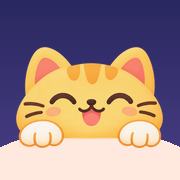
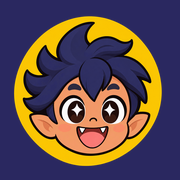
홈 화면 새 디자인: 꼬비샘과 쉬는 시간 (#5)
Claude-Session: https://claude.ai/code/session_01TJDp5aKoRydLwuCtjM8kES

diff --git a/index.html b/index.html
@@ -6,39 +6,76 @@
 <link rel="apple-touch-icon" href="/icons/icon-180.png"/>
 <link rel="icon" type="image/png" href="/icons/icon-192.png"/>
 <link rel="manifest" href="/manifest.webmanifest"/>
-<meta name="apple-mobile-web-app-title" content="꼬비샘 게임방"/>
+<meta name="apple-mobile-web-app-title" content="꼬비샘과 쉬는 시간"/>
 <meta name="theme-color" content="#2a2860"/>
-<title>꼬비샘 게임방</title>
+<title>꼬비샘과 쉬는 시간</title>
+<link rel="preload" as="image" href="img/bg.jpg"/>
 <link href="https://fonts.googleapis.com/css2?family=Jua&display=swap" rel="stylesheet"/>
 <style>
 *{margin:0;padding:0;box-sizing:border-box}
-:root{--cream:#fff6ec;--edge:#ecc9b0;--ink:#2c2950;--coral:#ee5a6f}
-body{font-family:'Jua',sans-serif;color:var(--ink);min-height:100vh;padding:48px 16px 40px;
-  background:radial-gradient(ellipse 60% 45% at 50% 30%,#45428f 0%,transparent 70%),linear-gradient(180deg,#26245a,#33307a 60%,#4a3f86);}
-h1{text-align:center;font-size:44px;color:#fff;letter-spacing:2px;text-shadow:0 4px 0 rgba(0,0,0,.25)}
-h1 span{color:#ffd25e}
-.sub{text-align:center;color:#cfc9f2;margin:10px 0 36px;font-size:17px}
-.grid{max-width:1000px;margin:0 auto;display:grid;grid-template-columns:repeat(auto-fill,minmax(260px,1fr));gap:24px}
-.game{display:block;text-decoration:none;color:inherit;background:var(--cream);border-radius:24px;overflow:hidden;
-  box-shadow:0 6px 0 var(--edge),0 12px 26px rgba(0,0,0,.25);transition:transform .15s}
-.game:hover{transform:translateY(-4px)}
-.game img{display:block;width:100%;aspect-ratio:10/9;object-fit:cover;background:#1d1c48}
-.info{padding:14px 18px 18px}
-.info b{display:block;font-size:24px;font-weight:normal;color:var(--coral)}
-.info p{font-size:15px;color:#6f6585;margin-top:4px}
-.soon{display:flex;align-items:center;justify-content:center;min-height:200px;border:3px dashed rgba(255,255,255,.25);border-radius:24px;color:#cfc9f2;font-size:18px}
-footer{text-align:center;color:rgba(255,255,255,.5);font-size:13px;margin-top:40px;letter-spacing:1px}
-/* ====== TOP BAR (게임방 / 전체화면) ====== */
+:root{--cream:#fff6e4;--line:#3a2b33;--ink:#2c2950;--coral:#f2685f;--yellow:#ffd75e;--night:#2a2860}
+html{background:var(--night)}
+body{font-family:'Jua',sans-serif;color:var(--ink);min-height:100vh;padding:28px 20px 48px;position:relative;overflow-x:hidden;
+  background:#2a2860 url(img/bg.jpg) center top/cover no-repeat fixed}
+body::before{content:"";position:fixed;inset:0;z-index:-1;background:linear-gradient(180deg,rgba(30,26,80,.15),rgba(30,26,80,0) 40%,rgba(30,26,80,.25))}
+.page{max-width:1180px;margin:0 auto;display:grid;grid-template-columns:250px 1fr;grid-template-areas:"head head" "char cards";column-gap:12px;align-items:end;position:relative}
+header{grid-area:head;text-align:center;position:relative;padding:40px 0 30px}
+.logo{display:block;width:min(680px,92%);height:auto;margin:0 auto;filter:drop-shadow(0 6px 0 rgba(20,16,60,.35))}
+h1{position:absolute;width:1px;height:1px;overflow:hidden;clip:rect(0 0 0 0)}
+.sub{color:#fff;font-size:22px;margin-top:10px;text-shadow:0 2px 0 rgba(20,16,60,.6),0 0 12px rgba(20,16,60,.6);letter-spacing:.5px}
+.char{grid-area:char;align-self:end;width:100%;height:auto;margin-bottom:-6px;transform-origin:50% 100%;animation:wave 3.2s ease-in-out infinite;filter:drop-shadow(0 8px 10px rgba(10,8,40,.45))}
+@keyframes wave{0%,100%{transform:rotate(0)}50%{transform:rotate(-2.5deg) translateY(-4px)}}
+.grid{grid-area:cards;display:grid;grid-template-columns:repeat(auto-fill,minmax(250px,1fr));gap:22px}
+.game,.soon{position:relative;display:flex;flex-direction:column;background:var(--cream);border:3px solid var(--line);border-radius:28px;padding:14px 14px 16px;
+  box-shadow:0 6px 0 rgba(58,43,51,.55),0 14px 28px rgba(10,8,40,.35);text-decoration:none;color:inherit}
+.game{transition:transform .15s}
+.game:hover,.game:focus-visible{transform:translateY(-5px) rotate(-.4deg)}
+.game:focus-visible{outline:4px solid var(--yellow);outline-offset:4px}
+.game img{display:block;width:100%;aspect-ratio:10/9;object-fit:cover;border-radius:18px;background:#1d1c48}
+.title{display:flex;align-items:center;justify-content:center;gap:8px;margin:14px 0 8px}
+.title b{font-weight:normal;font-size:24px;background:var(--yellow);border-radius:999px;padding:5px 22px 3px;box-shadow:inset 0 -3px 0 rgba(200,140,20,.25);white-space:nowrap}
+.burst{width:22px;height:26px;flex:none}
+.burst path{stroke:var(--coral);stroke-width:3.4;stroke-linecap:round;fill:none}
+.burst.r{transform:scaleX(-1)}
+.game p{text-align:center;font-size:15px;color:#3d3446}
+.soon{justify-content:center;align-items:center;min-height:300px;overflow:hidden}
+.soon::before{content:"";position:absolute;inset:12px;border:3px dashed #b9a99a;border-radius:20px}
+.soon span{font-size:26px;color:#7a6a63;margin-bottom:40px}
+.soon img{position:absolute;right:6px;bottom:12px;width:58%;max-width:200px;height:auto;animation:peek 4s ease-in-out infinite}
+@keyframes peek{0%,70%,100%{transform:translateY(0)}80%{transform:translateY(8px)}}
+.wisp{position:absolute;width:44px;height:auto;pointer-events:none;opacity:.95;filter:drop-shadow(0 0 14px rgba(255,220,110,.85));animation:float 5s ease-in-out infinite}
+.w1{left:6%;top:18%}.w2{right:8%;top:6%;width:36px;animation-delay:-1.6s}.w3{right:2%;top:62%;width:30px;animation-delay:-3s}.w4{left:16%;top:70%;width:26px;animation-delay:-2.2s}
+@keyframes float{0%,100%{transform:translateY(0)}50%{transform:translateY(-12px)}}
+@media (prefers-reduced-motion:reduce){.char,.wisp,.soon img{animation:none}}
+/* ====== TOP BAR (전체화면) ====== */
 .topbar{position:fixed;top:12px;left:12px;right:12px;z-index:50;display:flex;justify-content:flex-end;pointer-events:none}
-.topbar a,.topbar button{pointer-events:auto;display:inline-flex;align-items:center;gap:6px;border:none;border-radius:20px;padding:7px 14px;
-  font-family:'Jua',sans-serif;font-size:16px;color:var(--ink);background:rgba(255,246,236,.92);box-shadow:0 3px 0 var(--edge);text-decoration:none;cursor:pointer}
-.topbar a:hover,.topbar button:hover{filter:brightness(1.04)}
-.topbar svg{width:16px;height:16px;fill:none;stroke:currentColor;stroke-width:2.4;stroke-linecap:round;stroke-linejoin:round}
+.topbar a,.topbar button{pointer-events:auto;display:inline-flex;align-items:center;gap:6px;border:3px solid var(--line);border-radius:999px;padding:6px 16px;
+  font-family:'Jua',sans-serif;font-size:17px;color:var(--ink);background:var(--yellow);box-shadow:0 3px 0 rgba(58,43,51,.55);text-decoration:none;cursor:pointer}
+.topbar a:hover,.topbar button:hover{filter:brightness(1.05)}
+.topbar svg{width:18px;height:18px;fill:none;stroke:currentColor;stroke-width:2.6;stroke-linecap:round;stroke-linejoin:round}
+/* 태블릿: 캐릭터 조금 작게 */
+@media (max-width:1000px){.page{grid-template-columns:190px 1fr}}
+/* 휴대폰: 캐릭터는 제목 옆, 카드는 한 줄씩 */
+@media (max-width:760px){
+  body{padding:16px 16px 36px;background-attachment:scroll;background-size:auto 100vh;background-position:30% top}
+  .page{grid-template-columns:96px 1fr;grid-template-areas:"char head" "cards cards";column-gap:6px;align-items:center}
+  header{padding:30px 0 18px}
+  .logo{width:100%}
+  .sub{font-size:15px;margin-top:6px}
+  .char{align-self:center;margin:24px 0 14px}
+  .grid{grid-template-columns:1fr;gap:18px}
+  .game img{aspect-ratio:4/3;object-position:center top}
+  .title b{font-size:22px}
+  .soon{min-height:190px}
+  .soon img{width:140px}
+  .soon{align-items:flex-start;padding-left:34px}
+  .soon span{margin:0 0 20px;font-size:22px}
+  .wisp{width:28px}.w3,.w4{display:none}
+}
 @media (max-width:760px), (pointer:coarse){
   .topbar{top:6px;left:6px;right:6px}
-  .topbar a,.topbar button{font-size:12px;padding:7px 8px;gap:0}
-  .topbar svg{width:18px;height:18px}
-  .topbar .t{display:none}
+  .topbar a,.topbar button{font-size:13px;padding:5px 10px;gap:4px;border-width:2px}
+  .topbar svg{width:16px;height:16px}
 }
 </style>
 </head>
@@ -67,18 +104,33 @@ footer{text-align:center;color:rgba(255,255,255,.5);font-size:13px;margin-top:40
 })();
 </script>
 
-<h1>🎮 꼬비샘 <span>게임방</span></h1>
-<p class="sub">쉬는 시간에 친구들과 즐겨 보세요!</p>
-<div class="grid">
-  <a class="game" href="tetris/">
-    <img src="tetris/thumb.jpg" alt="냥냥 테트리스 게임 화면">
-    <div class="info"><b>냥냥 테트리스</b><p>10단계까지 완주하고 랭킹 TOP 50에 도전!</p></div>
-  </a>
-  <a class="game" href="spelling/">
-    <img src="spelling/thumb.jpg" alt="맞춤법 게임 화면">
-    <div class="info"><b>맞춤법 게임</b><p>맞춤법이 옳은 블록으로 점프! 50문제에 도전!</p></div>
-  </a>
-  <div class="soon">새 게임 준비 중 🐾</div>
+<div class="page">
+  <header>
+    <img class="wisp w1" src="img/wisp.png" alt="">
+    <img class="wisp w2" src="img/wisp.png" alt="">
+    <img class="wisp w3" src="img/wisp.png" alt="">
+    <img class="wisp w4" src="img/wisp.png" alt="">
+    <h1>꼬비샘과 쉬는 시간</h1>
+    <img class="logo" src="img/logo.png" alt="꼬비샘과 쉬는 시간" width="1100" height="197">
+    <p class="sub">쉬는 시간에 친구들과 즐겨 보세요!</p>
+  </header>
+  <img class="char" src="img/ggobi-wave.png" alt="손을 흔드는 꼬비" width="382" height="640">
+  <div class="grid">
+    <a class="game" href="tetris/">
+      <img src="tetris/thumb.jpg" alt="꼬비꼬비 테트리스 게임 화면">
+      <div class="title"><svg class="burst" viewBox="0 0 22 26" aria-hidden="true"><path d="M4 4l6 4M2 13h8M4 22l6-4"/></svg><b>꼬비꼬비 테트리스</b><svg class="burst r" viewBox="0 0 22 26" aria-hidden="true"><path d="M4 4l6 4M2 13h8M4 22l6-4"/></svg></div>
+      <p>10단계까지 완주하고 랭킹 TOP 50에 도전!</p>
+    </a>
+    <a class="game" href="spelling/">
+      <img src="spelling/thumb.jpg" alt="맞춤법 게임 화면">
+      <div class="title"><svg class="burst" viewBox="0 0 22 26" aria-hidden="true"><path d="M4 4l6 4M2 13h8M4 22l6-4"/></svg><b>맞춤법 게임</b><svg class="burst r" viewBox="0 0 22 26" aria-hidden="true"><path d="M4 4l6 4M2 13h8M4 22l6-4"/></svg></div>
+      <p>맞춤법이 옳은 블록으로 점프! 50문제에 도전!</p>
+    </a>
+    <div class="soon">
+      <span>새 게임 준비 중</span>
+      <img src="img/ggobi-peek.png" alt="" width="440" height="411">
+    </div>
+  </div>
 </div>
 </body>
 </html>
